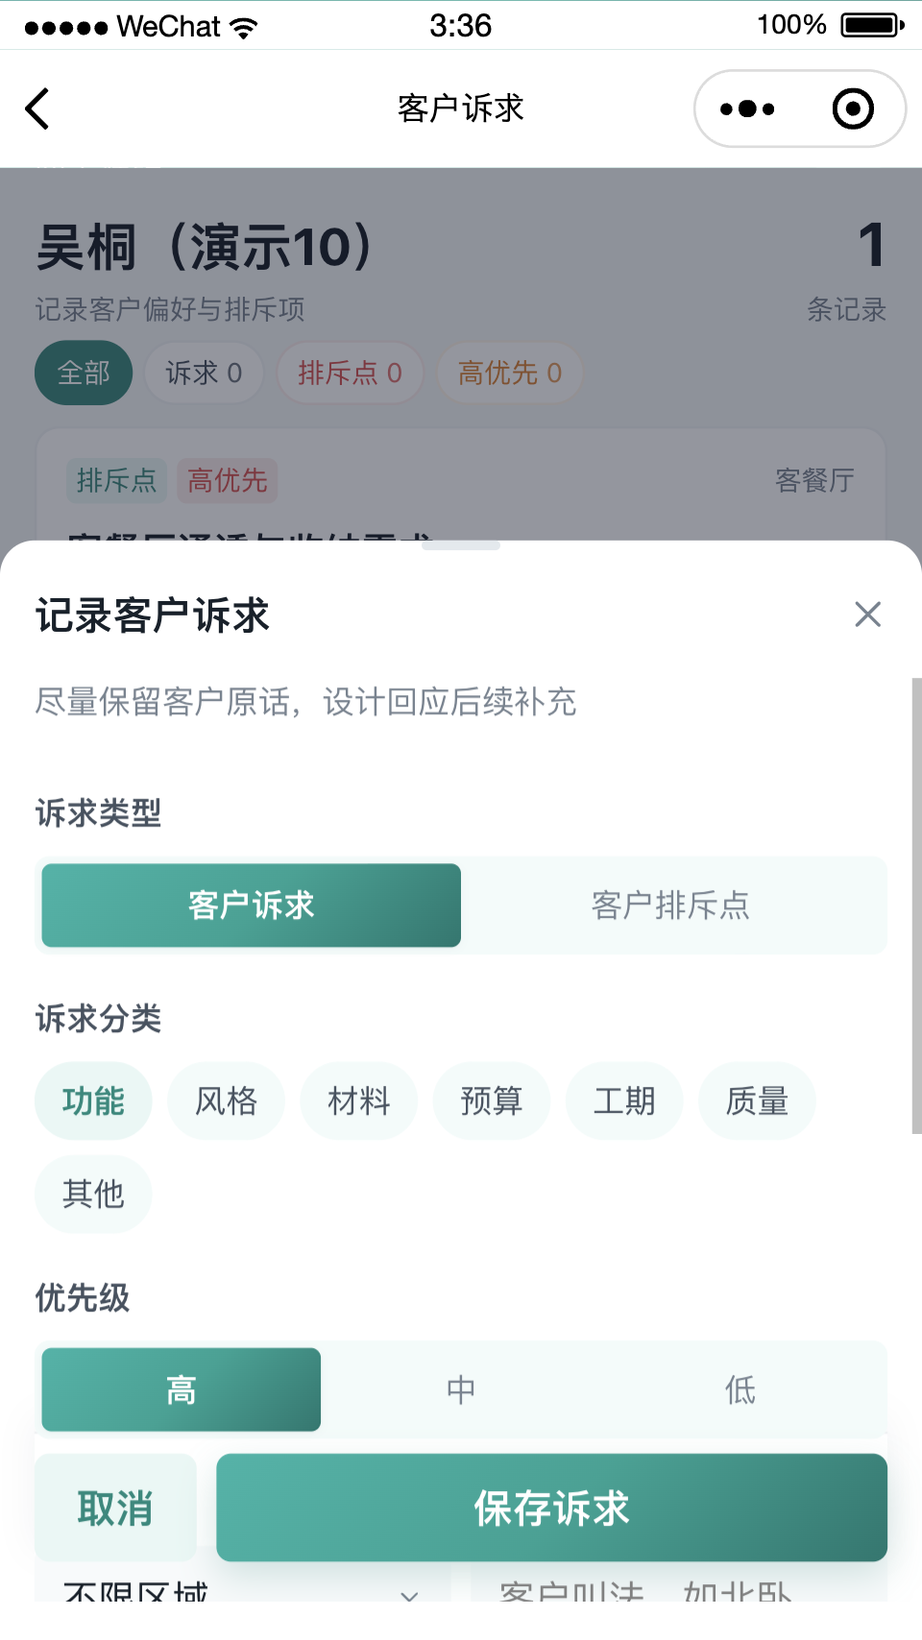
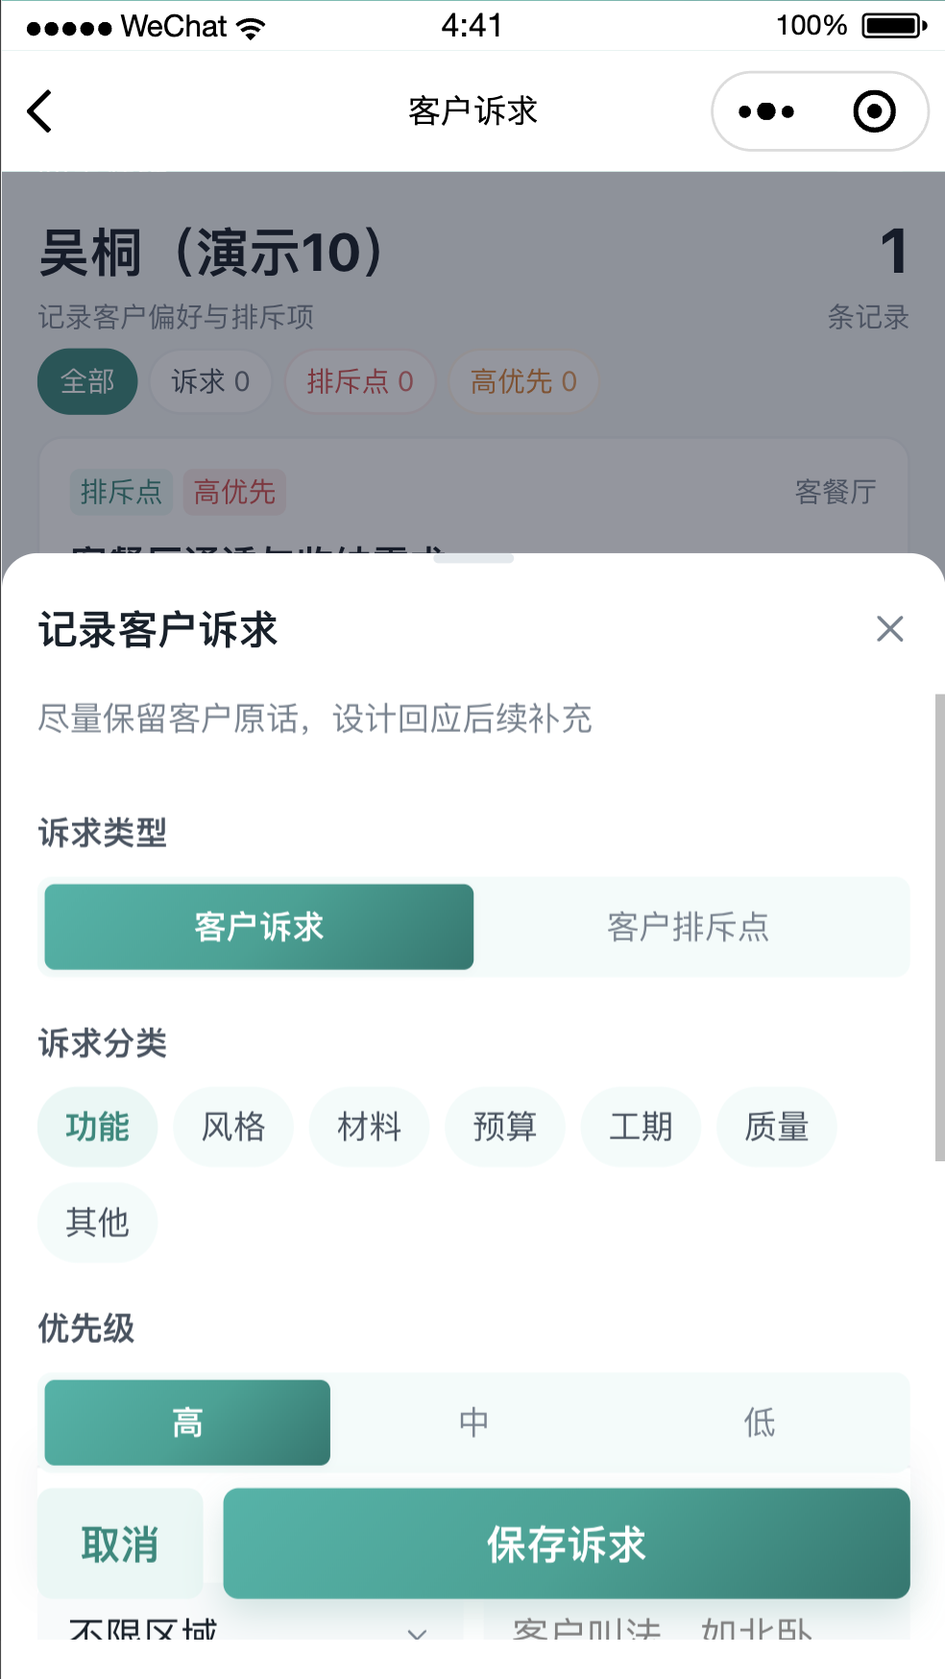
refactor(ui): z-index 层级统一到 $jzb-z-* Token，裸数字清零
问题
- uni.scss 已定义 $jzb-z-* 层级，但组件全用裸数字（80/90/100/101/120/200/
  201/300/999/1100），且与 Token 相悖：页面级固定层 800 会盖住抽屉 200，
  即「页面固定条遮挡抽屉」的潜在层级 bug。

层级重排（唯一真源 $jzb-z-*）
- content 1 / raised 10 / sticky 100 / fixed 200 / tabbar 300 / page 400 /
  dropdown 500 / mask 1000 / modal 1010 / confirm 1020 / popover 1050 /
  toast 1100 / loading 1200
- 抽屉与确认弹窗位于 mask 之上；全屏页面层、TabBar、固定操作条均低于 mask，
  浮层打开时被正确遮盖

替换
- JzSheet / JzConfirmDialog / JzMetricGlossary / CatalogPicker / JzTabBar /
  JzFloatAdd / JzPageHeader 改用 Token
- base.scss / finance.scss / design-scheme.scss 与 6 个页面的层级改用 Token
- 13 处局部 z-index:1 归并为 $jzb-z-content
- 清理 design-scheme.scss 中已迁移到 JzSheet 后失效的 .ds__mask/.ds__sheet*
  容器样式与孤儿 media 查询

防回归
- check-ui-conventions.mjs 增加第 5 条规则：<style> 内禁止裸数字 z-index

验证：verify:mp-weixin 全绿；客户诉求抽屉回归尺寸/位置与改造前一致
（编辑器 top 207.6、底部按钮 y=523）。

diff --git a/src/styles/design-scheme.scss b/src/styles/design-scheme.scss
@@ -11,7 +11,7 @@
 .ds__summary text { display: block; }
 .ds__summary text:first-child { font-size: $jzb-font-md; font-weight: 700; word-break: break-all; }
 .ds__summary text:last-child { margin-top: 5rpx; font-size: $jzb-font-xs; opacity: .75; }
-.ds__tabs { position: sticky; top: 0; z-index: 30; background: rgba(244,247,248,.97); white-space: nowrap; border-bottom: 1rpx solid rgba(15,23,42,.04); }
+.ds__tabs { position: sticky; top: 0; z-index: $jzb-z-sticky; background: rgba(244,247,248,.97); white-space: nowrap; border-bottom: 1rpx solid rgba(15,23,42,.04); }
 .ds__tab-row { display: inline-flex; gap: 12rpx; padding: 16rpx $jzb-page-pad; }
 .ds__tab { min-height: 64rpx; padding: 0 24rpx; display: inline-flex; align-items: center; color: $jzb-text-2; background: #fff; border: 1rpx solid $jzb-border; border-radius: $jzb-radius-pill; font-size: $jzb-font-sm; }
 .ds__tab text { margin-left: 8rpx; color: $jzb-text-3; font-size: $jzb-font-xs; }
@@ -66,13 +66,7 @@
 .ds__item-foot text:first-child { flex: 1; min-width: 0; line-height: 1.45; word-break: break-word; }
 .ds__item-foot text:last-child { flex-shrink: 0; white-space: nowrap; }
 .ds__total { display: flex; justify-content: space-between; padding: 26rpx 8rpx; color: $jzb-primary-dark; font-size: $jzb-font-md; font-weight: 750; }
-.ds__mask { position: fixed; inset: 0; z-index: 100; display: flex; align-items: flex-end; background: rgba(15,23,42,.48); }
-.ds__sheet { width: 100%; max-height: 90vh; display: flex; flex-direction: column; background: #fff; border-radius: 32rpx 32rpx 0 0; }
-.ds__sheet--tall { height: 90vh; }
-.ds__sheet-head { padding: 30rpx $jzb-page-pad 22rpx; display: flex; justify-content: space-between; border-bottom: 1rpx solid $jzb-border-light; }
-.ds__sheet-title { display: block; font-size: $jzb-font-xl; font-weight: 750; line-height: 1.35; }
 .ds__sheet-sub { display: block; margin-top: 6rpx; color: $jzb-text-3; font-size: $jzb-font-sm; line-height: 1.45; }
-.ds__close { width: 64rpx; height: 64rpx; display: flex; align-items: center; justify-content: center; background: $jzb-bg-hover; border-radius: 50%; }
 .ds__sheet-content { flex: 1; min-height: 0; height: 0; padding: 6rpx $jzb-page-pad 30rpx; overflow: hidden; }
 .ds__field-label { display: block; margin: 26rpx 0 12rpx; color: $jzb-text-2; font-size: $jzb-font-sm; font-weight: 650; }
 .ds__picker { justify-content: space-between; }
@@ -104,7 +98,6 @@
 .ds__source .jz-grow, .ds__source > view:first-child { min-width: 0; }
 .ds__source text:last-child { display: block; margin-top: 4rpx; color: $jzb-primary-dark; font-size: $jzb-font-md; font-weight: 650; overflow: hidden; white-space: nowrap; text-overflow: ellipsis; }
 .ds__formula-tip { display: flex; gap: 10rpx; margin: 24rpx 0; padding: 18rpx; color: $jzb-text-2; background: $jzb-primary-lightest; border-radius: $jzb-radius-sm; font-size: $jzb-font-sm; line-height: 1.5; }
-.ds__sheet-foot { padding: 16rpx $jzb-page-pad calc(16rpx + #{$jzb-safe-bottom}); display: flex; gap: 14rpx; border-top: 1rpx solid $jzb-border-light; box-shadow: 0 -10rpx 30rpx rgba(15,23,42,.05); }
 
 /* 分项左右布局 */
 .ds__section--split { padding-bottom: 32rpx; }
@@ -117,7 +110,7 @@
 .ds__space-side-count { color: $jzb-text-4; font-size: 20rpx; }
 .ds__space-side-amount { color: $jzb-primary-dark; font-size: $jzb-font-xs; font-weight: 700; font-variant-numeric: tabular-nums; }
 .ds__item-side { flex: 1; min-width: 0; background: $jzb-bg-page; border-radius: $jzb-radius; overflow: hidden; }
-.ds__item-side-head { display: flex; align-items: center; justify-content: space-between; padding: 16rpx 20rpx; background: $jzb-bg-card; border-bottom: 1rpx solid $jzb-border-light; position: sticky; top: 0; z-index: 2; }
+.ds__item-side-head { display: flex; align-items: center; justify-content: space-between; padding: 16rpx 20rpx; background: $jzb-bg-card; border-bottom: 1rpx solid $jzb-border-light; position: sticky; top: 0; z-index: $jzb-z-content; }
 .ds__item-side-title { color: $jzb-text-1; font-size: $jzb-font-sm; font-weight: 700; }
 .ds__item-side-total { color: $jzb-primary-dark; font-size: $jzb-font-md; font-weight: 750; font-variant-numeric: tabular-nums; }
 .ds__item-side .ds__item-card { margin: 12rpx 12rpx 0; padding: 18rpx 20rpx; }
@@ -135,4 +128,3 @@
 .ds__summary-name { flex: 1; min-width: 0; color: $jzb-text-2; font-size: $jzb-font-sm; }
 .ds__summary-count { flex-shrink: 0; color: $jzb-text-4; font-size: $jzb-font-xs; }
 .ds__summary-amount { flex-shrink: 0; color: $jzb-text-1; font-size: $jzb-font-sm; font-weight: 700; font-variant-numeric: tabular-nums; }
-@media (min-width: 768px) { .ds__mask, .ds__sheet { left: 50%; right: auto; width: 560px; transform: translateX(-50%); } }

diff --git a/src/subpackages/project/pages/selection-board.vue b/src/subpackages/project/pages/selection-board.vue
@@ -369,15 +369,15 @@ function openProject(card: WorkbenchCard) {
 .sw { padding: $jzb-space-4 $jzb-page-pad 40rpx; }
 .sw__hero { position: relative; overflow: hidden; padding: 30rpx 28rpx; margin-bottom: $jzb-page-gap; color: $jzb-text-inverse; background: $jzb-gradient; box-shadow: $jzb-shadow-float; }
 .sw__hero::after { content: ''; position: absolute; right: -60rpx; top: -80rpx; width: 260rpx; height: 260rpx; border-radius: 50%; background: rgba(255,255,255,.08); }
-.sw__hero-top { position: relative; z-index: 1; display: flex; align-items: flex-start; justify-content: space-between; gap: 20rpx; }
+.sw__hero-top { position: relative; z-index: $jzb-z-content; display: flex; align-items: flex-start; justify-content: space-between; gap: 20rpx; }
 .sw__eyebrow { display: block; color: rgba(255,255,255,.72); font-size: $jzb-font-xs; letter-spacing: 1rpx; }
 .sw__title { display: block; margin-top: 8rpx; color: $jzb-text-inverse; font-size: 40rpx; font-weight: 700; }
 .sw__live { padding: 6rpx 14rpx; border: 1rpx solid rgba(255,255,255,.24); border-radius: $jzb-radius-pill; color: rgba(255,255,255,.88); background: rgba(255,255,255,.10); font-size: $jzb-font-xs; }
-.sw__sub { position: relative; z-index: 1; display: block; margin-top: 10rpx; color: rgba(255,255,255,.76); font-size: $jzb-font-sm; line-height: 1.55; }
-.sw__progress-head { position: relative; z-index: 1; display: flex; align-items: center; justify-content: space-between; margin-top: 26rpx; color: rgba(255,255,255,.82); font-size: $jzb-font-xs; }
+.sw__sub { position: relative; z-index: $jzb-z-content; display: block; margin-top: 10rpx; color: rgba(255,255,255,.76); font-size: $jzb-font-sm; line-height: 1.55; }
+.sw__progress-head { position: relative; z-index: $jzb-z-content; display: flex; align-items: center; justify-content: space-between; margin-top: 26rpx; color: rgba(255,255,255,.82); font-size: $jzb-font-xs; }
 .sw__progress-value { color: $jzb-text-inverse; font-weight: 650; font-variant-numeric: tabular-nums; }
-.sw__hero :deep(.jz-progress) { position: relative; z-index: 1; margin-top: 10rpx; background: rgba(255,255,255,.20); }
-.sw__metrics { position: relative; z-index: 1; display: grid; grid-template-columns: repeat(4, minmax(0, 1fr)); gap: 10rpx; margin-top: 24rpx; }
+.sw__hero :deep(.jz-progress) { position: relative; z-index: $jzb-z-content; margin-top: 10rpx; background: rgba(255,255,255,.20); }
+.sw__metrics { position: relative; z-index: $jzb-z-content; display: grid; grid-template-columns: repeat(4, minmax(0, 1fr)); gap: 10rpx; margin-top: 24rpx; }
 .sw__metric { min-width: 0; padding: 16rpx 8rpx; border-radius: $jzb-radius-sm; text-align: center; }
 .sw__metric-value { display: block; font-size: 34rpx; font-weight: 750; font-variant-numeric: tabular-nums; }
 .sw__metric-label { display: block; margin-top: 4rpx; color: $jzb-text-2; font-size: 20rpx; white-space: nowrap; }

diff --git a/src/subpackages/statistic/pages/performance.vue b/src/subpackages/statistic/pages/performance.vue
@@ -748,13 +748,13 @@ function openQuotes() { uni.navigateTo({ url: P.quoteList }) }
 /* 主指标卡：品牌 Header 负责“我是谁”，浅底数据卡负责“结果如何”，避免两块深色相邻 */
 .perf__hero { position: relative; overflow: hidden; margin-bottom: 40rpx; padding: 26rpx 28rpx 22rpx; background: linear-gradient(160deg, $jzb-primary-lightest 0%, $jzb-text-inverse 58%); border: 1rpx solid rgba(14,138,125,.14); border-radius: $jzb-radius-lg; box-shadow: 0 10rpx 30rpx rgba(14,138,125,.10); }
 .perf__hero::after { content: ''; position: absolute; right: -90rpx; top: -110rpx; width: 260rpx; height: 260rpx; border-radius: 50%; background: rgba(22,163,148,.10); pointer-events: none; }
-.perf__hero-head { position: relative; z-index: 1; display: flex; align-items: center; justify-content: space-between; }
+.perf__hero-head { position: relative; z-index: $jzb-z-content; display: flex; align-items: center; justify-content: space-between; }
 .perf__hero-label { color: $jzb-text-2; font-size: $jzb-font-sm; font-weight: 600; }
 .perf__hero-scope { flex-shrink: 0; margin-left: 16rpx; padding: 4rpx 16rpx; color: $jzb-primary-dark; background: $jzb-text-inverse; border: 1rpx solid rgba(14,138,125,.20); border-radius: $jzb-radius-pill; font-size: 20rpx; }
-.perf__hero-figure { position: relative; z-index: 1; display: flex; align-items: baseline; margin-top: 10rpx; }
+.perf__hero-figure { position: relative; z-index: $jzb-z-content; display: flex; align-items: baseline; margin-top: 10rpx; }
 .perf__hero-value { color: $jzb-primary-dark; font-size: 64rpx; line-height: 1.1; font-weight: 760; letter-spacing: -2rpx; font-variant-numeric: tabular-nums; }
 .perf__hero-unit { margin-left: 8rpx; color: $jzb-primary; font-size: 30rpx; font-weight: 650; }
-.perf__hero-foot { position: relative; z-index: 1; display: flex; align-items: stretch; margin-top: 22rpx; padding-top: 18rpx; border-top: 1rpx solid rgba(14,138,125,.12); }
+.perf__hero-foot { position: relative; z-index: $jzb-z-content; display: flex; align-items: stretch; margin-top: 22rpx; padding-top: 18rpx; border-top: 1rpx solid rgba(14,138,125,.12); }
 .perf__hero-foot-col { flex: 1; min-width: 0; }
 .perf__hero-foot-col + .perf__hero-foot-col { margin-left: 22rpx; padding-left: 22rpx; border-left: 1rpx solid rgba(14,138,125,.12); }
 .perf__hero-foot-label { display: block; color: $jzb-text-3; font-size: 20rpx; }

diff --git a/src/subpackages/project/pages/detail.vue b/src/subpackages/project/pages/detail.vue
@@ -646,7 +646,7 @@ function avatarOf(m: ProjectMember) {
 .pd__hero-avatar--more { width: 52rpx; height: 52rpx; background: rgba(255,255,255,0.3); color: $jzb-text-inverse; font-size: $jzb-font-xs; display: flex; align-items: center; justify-content: center; }
 .pd__hero-team-link { display: flex; align-items: center; margin-left: 22rpx; }
 .pd__hero-team-text { color: rgba(255,255,255,0.92); font-size: $jzb-font-xs; }
-.pd__accept-banner { margin: -40rpx 24rpx 0; position: relative; background: $jzb-warning-soft; border-radius: $jzb-radius; padding: 22rpx 24rpx; display: flex; flex-direction: row; align-items: center; z-index: 5; box-shadow: $jzb-shadow-card; }
+.pd__accept-banner { margin: -40rpx 24rpx 0; position: relative; background: $jzb-warning-soft; border-radius: $jzb-radius; padding: 22rpx 24rpx; display: flex; flex-direction: row; align-items: center; z-index: $jzb-z-content; box-shadow: $jzb-shadow-card; }
 .pd__accept-icon { width: 58rpx; height: 58rpx; margin-right: 16rpx; border-radius: 18rpx; display: flex; align-items: center; justify-content: center; background: rgba(255,255,255,.7); }
 .pd__accept-title { display: block; font-size: $jzb-font; font-weight: 600; }
 .pd__accept-sub { display: block; font-size: $jzb-font-xs; color: $jzb-text-3; margin-top: 2rpx; }
@@ -672,7 +672,7 @@ function avatarOf(m: ProjectMember) {
 .pd__role-value { flex: 1; font-size: $jzb-font-sm; color: $jzb-text-1; }
 .pd__role-value--empty { color: $jzb-danger; font-weight: 700; }
 .pd__role-action { font-size: $jzb-font-xs; color: $jzb-primary; padding: 4rpx 16rpx; background: $jzb-primary-lighter; border-radius: $jzb-radius-pill; }
-.pd__tabs { position: sticky; top: 0; z-index: 20; display: flex; flex-direction: row; background: $jzb-text-inverse; padding: 0 16rpx; box-shadow: $jzb-shadow-xs; }
+.pd__tabs { position: sticky; top: 0; z-index: $jzb-z-sticky; display: flex; flex-direction: row; background: $jzb-text-inverse; padding: 0 16rpx; box-shadow: $jzb-shadow-xs; }
 .pd__tab { flex: 1; text-align: center; font-size: $jzb-font; color: $jzb-text-2; padding: 24rpx 0 20rpx; position: relative; }
 .pd__tab--on { color: $jzb-primary-dark; font-weight: 700; }
 .pd__tab--on::after { content: ''; position: absolute; bottom: 6rpx; left: 50%; transform: translateX(-50%); width: 48rpx; height: 6rpx; border-radius: 6rpx; background: $jzb-primary; }

diff --git a/src/pages/auth/enterprise.vue b/src/pages/auth/enterprise.vue
@@ -147,7 +147,7 @@ async function submit() {
   content: ''; position: absolute; right: -90rpx; top: -120rpx; width: 320rpx; height: 320rpx;
   border-radius: 50%; background: rgba(255, 255, 255, .10); pointer-events: none;
 }
-.ent__hero-main { position: relative; z-index: 1; display: flex; align-items: center; }
+.ent__hero-main { position: relative; z-index: $jzb-z-content; display: flex; align-items: center; }
 .ent__hero-logo {
   display: flex; align-items: center; justify-content: center; width: 104rpx; height: 104rpx; margin-right: 22rpx;
   background: rgba(255, 255, 255, .14); border: 1rpx solid rgba(255, 255, 255, .18); border-radius: 30rpx;
@@ -155,14 +155,14 @@ async function submit() {
 .ent__hero-eyebrow { display: block; color: rgba(255, 255, 255, .78); font-size: $jzb-font-xs; font-weight: 650; }
 .ent__hero-title { display: block; margin-top: 6rpx; font-size: 42rpx; font-weight: 780; line-height: 1.25; }
 .ent__hero-sub { display: block; margin-top: 8rpx; color: rgba(255, 255, 255, .78); font-size: $jzb-font-xs; }
-.ent__hero-meta { position: relative; z-index: 1; display: flex; flex-wrap: wrap; gap: 14rpx; margin-top: 26rpx; }
+.ent__hero-meta { position: relative; z-index: $jzb-z-content; display: flex; flex-wrap: wrap; gap: 14rpx; margin-top: 26rpx; }
 .ent__hero-chip {
   display: flex; align-items: center; gap: 8rpx; min-height: 48rpx; padding: 0 16rpx;
   color: $jzb-text-inverse; background: rgba(255, 255, 255, .14); border-radius: 999rpx;
   font-size: 21rpx;
 }
 .ent__hero-points {
-  position: relative; z-index: 1; display: flex; justify-content: space-between; margin-top: 26rpx;
+  position: relative; z-index: $jzb-z-content; display: flex; justify-content: space-between; margin-top: 26rpx;
   padding-top: 22rpx; border-top: 1rpx solid rgba(255, 255, 255, .18);
 }
 .ent__hero-points > view { display: flex; align-items: center; gap: 8rpx; color: rgba(255, 255, 255, .88); font-size: $jzb-font-xs; }

diff --git a/src/subpackages/quote/pages/catalog/manage.vue b/src/subpackages/quote/pages/catalog/manage.vue
@@ -590,7 +590,7 @@ async function doToggle(item: CatalogItem, active: boolean) {
 .cm__image--add { display: flex; flex-direction: column; align-items: center; justify-content: center; gap: 8rpx; color: $jzb-text-3; border: 2rpx dashed $jzb-text-4; font-size: $jzb-font-xs; }
 .cm__brand-row { align-items: start; }
 .cm__brand-field { position: relative; min-width: 0; }
-.cm__brand-suggest { position: absolute; top: calc(100% + 8rpx); left: 0; right: 0; z-index: 8; max-height: 430rpx; overflow-y: auto; padding: 8rpx; background: $jzb-text-inverse; border: 1rpx solid $jzb-border-light; border-radius: $jzb-radius-sm; box-shadow: 0 12rpx 30rpx rgba(15,23,42,.12); }
+.cm__brand-suggest { position: absolute; top: calc(100% + 8rpx); left: 0; right: 0; z-index: $jzb-z-raised; max-height: 430rpx; overflow-y: auto; padding: 8rpx; background: $jzb-text-inverse; border: 1rpx solid $jzb-border-light; border-radius: $jzb-radius-sm; box-shadow: 0 12rpx 30rpx rgba(15,23,42,.12); }
 .cm__brand-option { min-height: 68rpx; padding: 0 16rpx; display: flex; align-items: center; justify-content: space-between; color: $jzb-text-1; font-size: $jzb-font-sm; }
 .cm__brand-option:active { background: $jzb-primary-lightest; }
 .cm__brand-custom { padding: 14rpx 16rpx; color: $jzb-primary-dark; background: $jzb-primary-lightest; border-radius: 8rpx; font-size: $jzb-font-xs; line-height: 1.5; }

diff --git a/src/subpackages/design/pages/talk.vue b/src/subpackages/design/pages/talk.vue
@@ -155,7 +155,7 @@ function jumpTo(section: TalkSection, index: number) {
 .dt__facts { display: grid; grid-template-columns: repeat(3, 1fr); margin-top: 26rpx; padding-top: 20rpx; border-top: 1rpx solid rgba(255,255,255,.16); }
 .dt__facts text { display: block; text-align: center; font-size: $jzb-font-xs; opacity: .72; }
 .dt__facts text:last-child { margin-top: 5rpx; font-size: $jzb-font-sm; font-weight: 700; opacity: 1; word-break: break-all; }
-.dt__nav { position: sticky; top: 0; z-index: 30; background: rgba(244,247,248,.97); white-space: nowrap; border-bottom: 1rpx solid rgba(15,23,42,.04); }
+.dt__nav { position: sticky; top: 0; z-index: $jzb-z-sticky; background: rgba(244,247,248,.97); white-space: nowrap; border-bottom: 1rpx solid rgba(15,23,42,.04); }
 .dt__nav-row { display: inline-flex; gap: 12rpx; padding: 16rpx $jzb-page-pad; }
 .dt__nav-item { max-width: 220rpx; min-height: 64rpx; padding: 0 20rpx; display: inline-flex; align-items: center; color: $jzb-text-2; background: $jzb-text-inverse; border: 1rpx solid $jzb-border; border-radius: $jzb-radius-pill; font-size: $jzb-font-sm; }
 .dt__nav-item text:last-child { min-width: 0; overflow: hidden; white-space: nowrap; text-overflow: ellipsis; }

diff --git a/src/subpackages/project/pages/material-plan-workbench.vue b/src/subpackages/project/pages/material-plan-workbench.vue
@@ -486,7 +486,7 @@ function confirmArrival(item: MaterialPlanWorkbenchItem) {
 .mpw__return-money { flex: 0 0 auto; font-size: $jzb-font-sm; font-weight: 700; color: $jzb-success; }
 .mpw__return-reason { display: block; margin-top: 8rpx; font-size: $jzb-font-xs; color: $jzb-text-3; }
 .mpw__return-warn { display: block; margin-top: 6rpx; font-size: $jzb-font-xs; color: $jzb-danger; }
-.mpw__batchbar { position: fixed; left: 0; right: 0; bottom: calc(#{$jzb-tabbar-height} + #{$jzb-safe-bottom}); z-index: 101; display: flex; align-items: center; gap: $jzb-space-3; padding: $jzb-space-4 $jzb-page-pad; background: $jzb-bg-card; border-top: 1rpx solid $jzb-border-light; }
+.mpw__batchbar { position: fixed; left: 0; right: 0; bottom: calc(#{$jzb-tabbar-height} + #{$jzb-safe-bottom}); z-index: $jzb-z-fixed; display: flex; align-items: center; gap: $jzb-space-3; padding: $jzb-space-4 $jzb-page-pad; background: $jzb-bg-card; border-top: 1rpx solid $jzb-border-light; }
 .mpw__batchbar-info { flex: 1; min-width: 0; }
 .mpw__batchbar-text { display: block; font-size: $jzb-font-sm; color: $jzb-text-1; font-weight: 650; }
 .mpw__batchbar-sub { display: block; margin-top: 4rpx; font-size: 20rpx; color: $jzb-text-3; }

diff --git a/src/uni.scss b/src/uni.scss
@@ -111,12 +111,19 @@ $jzb-duration-slow: 300ms;
 $jzb-ease-out: cubic-bezier(0.4, 0, 0.2, 1);
 $jzb-ease-spring: cubic-bezier(0.34, 1.56, 0.64, 1);
 
-/* Z-index */
-$jzb-z-fixed: 800;
-$jzb-z-sticky: 900;
-$jzb-z-dropdown: 950;
-$jzb-z-mask: 1000;
-$jzb-z-modal: 1010;
+/* Z-index 统一层级（唯一真源，禁止在页面/组件内写裸数字）
+   同层内需要再分先后时，用 $jzb-z-<name> + n，不要另起数值。 */
+$jzb-z-content: 1;        /* 同层装饰：头图内文字、卡片压边 */
+$jzb-z-raised: 10;        /* 局部抬升：页头栏、卡内下拉建议 */
+$jzb-z-sticky: 100;       /* 吸顶导航 / 分段 / 表头 */
+$jzb-z-fixed: 200;        /* 底部固定操作条、悬浮新增（FAB） */
+$jzb-z-tabbar: 300;       /* 自定义 TabBar */
+$jzb-z-page: 400;         /* 全屏页面层（CatalogPicker 等） */
+$jzb-z-dropdown: 500;     /* 锚定下拉浮层 */
+$jzb-z-mask: 1000;        /* 遮罩 */
+$jzb-z-modal: 1010;       /* 抽屉 / 模态面板 */
+$jzb-z-confirm: 1020;     /* 确认弹窗（必须高于抽屉） */
+$jzb-z-popover: 1050;     /* 高优先级说明气泡 */
 $jzb-z-toast: 1100;
 $jzb-z-loading: 1200;
 

diff --git a/src/styles/finance.scss b/src/styles/finance.scss
@@ -72,8 +72,8 @@
 .fin-quick__item--disabled { opacity: .45; }
 .fin-quick__icon { width: 58rpx; height: 58rpx; display: flex; align-items: center; justify-content: center; border-radius: 18rpx; }
 .fin-quick__text { margin-top: 10rpx; color: $jzb-text-2; font-size: $jzb-font-xs; }
-.fin-sheet-mask { position: fixed; inset: 0; z-index: 200; background: rgba(15,23,42,.42); }
-.fin-sheet { position: fixed; left: 0; right: 0; bottom: 0; z-index: 201; max-height: 82vh; padding: 28rpx 28rpx calc(28rpx + #{$jzb-safe-bottom}); background: $jzb-text-inverse; border-radius: 36rpx 36rpx 0 0; }
+.fin-sheet-mask { position: fixed; inset: 0; z-index: $jzb-z-mask; background: rgba(15,23,42,.42); }
+.fin-sheet { position: fixed; left: 0; right: 0; bottom: 0; z-index: $jzb-z-modal; max-height: 82vh; padding: 28rpx 28rpx calc(28rpx + #{$jzb-safe-bottom}); background: $jzb-text-inverse; border-radius: 36rpx 36rpx 0 0; }
 .fin-sheet__head { display: flex; align-items: center; justify-content: space-between; padding-bottom: 20rpx; }
 .fin-sheet__title { color: $jzb-text-1; font-size: $jzb-font-lg; font-weight: 720; }
 .fin-sheet__list { max-height: 56vh; }

diff --git a/src/components/JzConfirmDialog.vue b/src/components/JzConfirmDialog.vue
@@ -68,7 +68,7 @@ const iconColor = computed(() => {
 
 <style scoped lang="scss">
 /* 居中卡片：与 JzSheet 的底部非模态区分，确认/警示动作使用模态语义 */
-.jz-confirm { position: fixed; inset: 0; z-index: 300; display: flex; align-items: center; justify-content: center; padding: 0 56rpx; background: rgba(15, 23, 42, .45); }
+.jz-confirm { position: fixed; inset: 0; z-index: $jzb-z-confirm; display: flex; align-items: center; justify-content: center; padding: 0 56rpx; background: rgba(15, 23, 42, .45); }
 .jz-confirm__card { width: 100%; max-width: 600rpx; padding: 36rpx 32rpx 28rpx; box-sizing: border-box; background: $jzb-bg-card; border-radius: $jzb-radius-lg; box-shadow: $jzb-shadow-card; }
 .jz-confirm__head { display: flex; align-items: flex-start; gap: 20rpx; }
 .jz-confirm__icon { flex-shrink: 0; width: 72rpx; height: 72rpx; display: flex; align-items: center; justify-content: center; border-radius: 50%; background: $jzb-primary-lighter; }

diff --git a/src/components/JzMetricGlossary.vue b/src/components/JzMetricGlossary.vue
@@ -67,7 +67,7 @@ const show = ref(false)
 .jz-glossary__entry-main { display: flex; flex-direction: column; gap: 8rpx; }
 .jz-glossary__entry-title { font-size: 28rpx; font-weight: 600; color: $jzb-text-1; }
 .jz-glossary__entry-sub { font-size: 22rpx; color: $jzb-text-3; }
-.jz-glossary__mask { position: fixed; inset: 0; z-index: 999; background: rgba(15, 23, 42, 0.45); display: flex; align-items: flex-end; }
+.jz-glossary__mask { position: fixed; inset: 0; z-index: $jzb-z-popover; background: rgba(15, 23, 42, 0.45); display: flex; align-items: flex-end; }
 .jz-glossary__sheet { width: 100%; max-height: 82vh; border-radius: 28rpx 28rpx 0 0; background: $jzb-bg-hover; padding: 28rpx 28rpx 0; box-sizing: border-box; }
 .jz-glossary__head { display: flex; align-items: center; justify-content: space-between; padding-bottom: 16rpx; }
 .jz-glossary__title { font-size: 32rpx; font-weight: 700; color: $jzb-text-1; }
